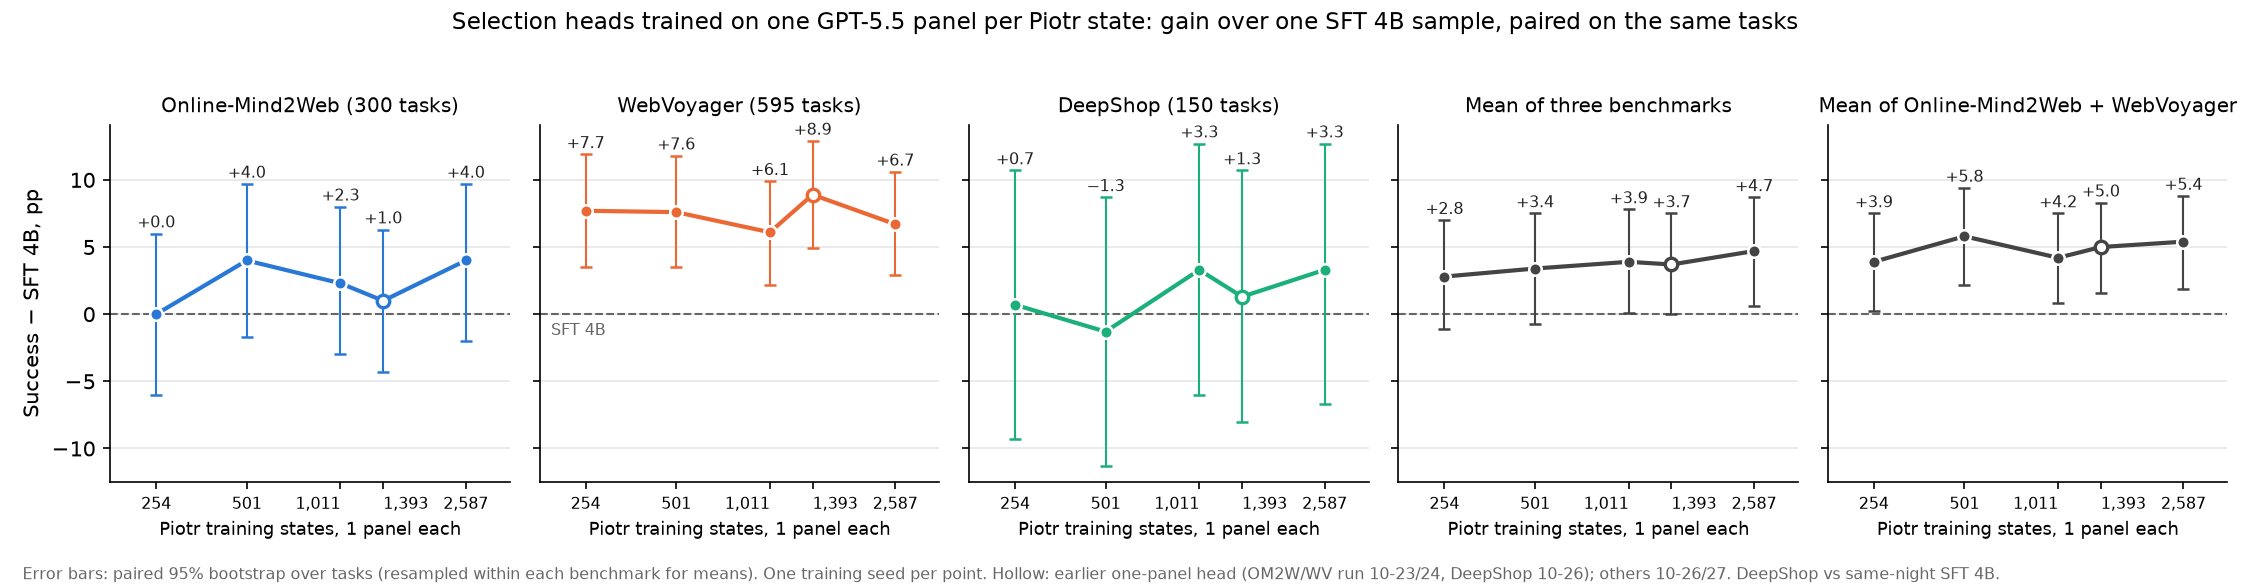
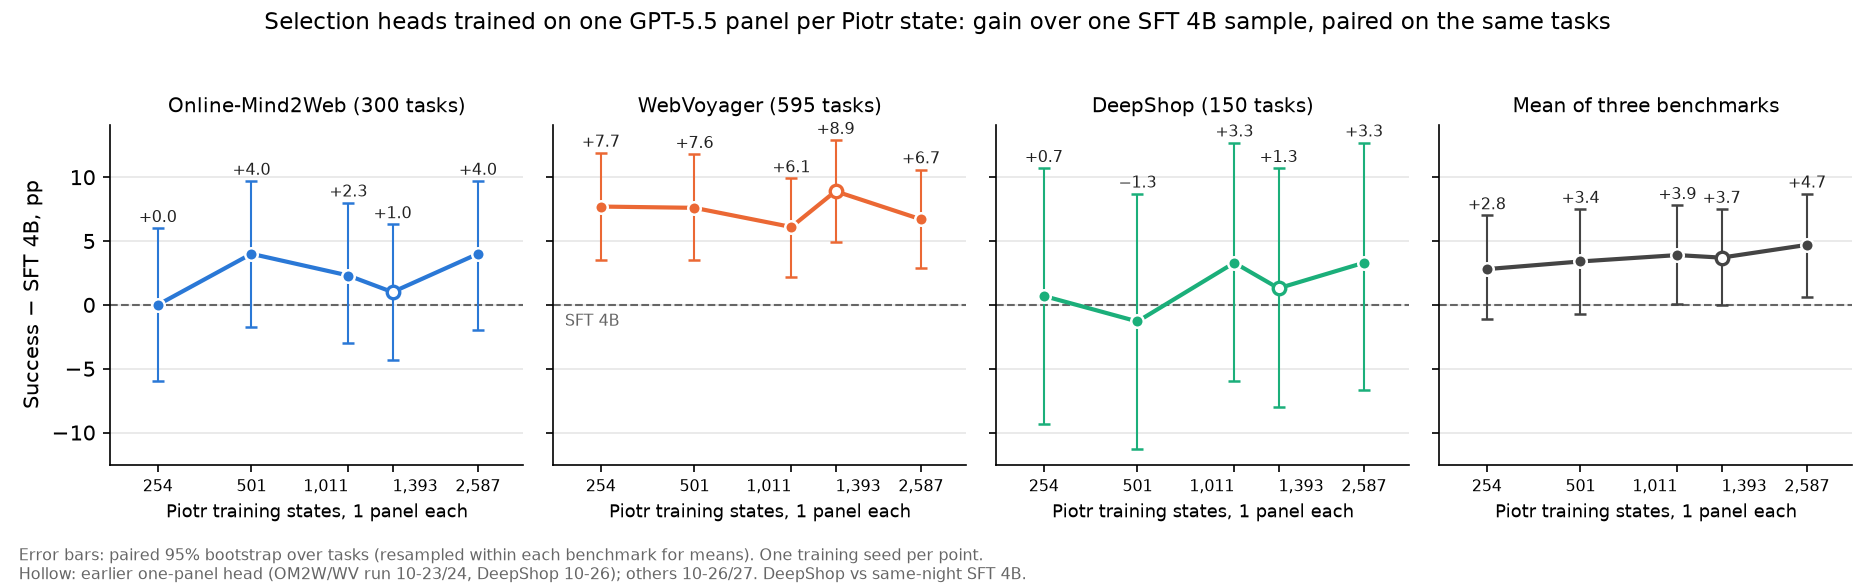
Final results: state and panel scaling at one seed, same-day DeepShop; standalone mean-of-three scaling plot, per-benchmark plot without the two-benchmark mean

diff --git a/openwebrl/docs/arm_results/rl_integration/selection-state-scale-1panel-paired-20261027-plot.py b/openwebrl/docs/arm_results/rl_integration/selection-state-scale-1panel-paired-20261027-plot.py
@@ -1,9 +1,10 @@
 #!/usr/bin/env python3
 """Paired-difference scaling plot for the one-panel state scaling (reads selection-state-scale-1panel-20261027.json).
 
-selection-state-scale-1panel-paired-20261027.png: heads trained on one GPT-5.5 panel per state (seed 0; 254 / 501 / 1,011 /
+(1) selection-state-scale-1panel-paired-20261027.png: heads trained on one GPT-5.5 panel per state (seed 0; 254 / 501 / 1,011 /
 2,587 states, plus the earlier 1,393-state one-panel head, drawn hollow), success minus SFT 4B one sample on the same tasks,
-one panel per benchmark plus the three-benchmark and Online-Mind2Web + WebVoyager means. Error bars: paired 95% bootstrap
+one panel per benchmark plus the three-benchmark mean.
+(2) selection-state-scale-1panel-mean-20261027.png: the three-benchmark mean alone. Error bars: paired 95% bootstrap
 over tasks (within each benchmark for means). Neither training-seed variance (one seed per head) nor run-date drift is in
 the bars.
 """
@@ -21,10 +22,11 @@ BLUE, ORANGE, AQUA, GRAY = "#2a78d6", "#eb6834", "#1baf7a", "#444444"
 RUNS = [("n250", 254), ("n500", 501), ("n1000", 1011), ("n1393", 1393), ("nall", 2587)]
 xs = [x for _, x in RUNS]
 PANELS = [("Online-Mind2Web (300 tasks)", "online_mind2web", BLUE), ("WebVoyager (595 tasks)", "webvoyager", ORANGE),
-          ("DeepShop (150 tasks)", "deepshop", AQUA), ("Mean of three benchmarks", "mean", GRAY),
-          ("Mean of Online-Mind2Web + WebVoyager", "om2w_wv", GRAY)]
-fig, axes = plt.subplots(1, 5, figsize=(15, 3.9), dpi=150, sharey=True)
-for ax, (title, key, color) in zip(axes, PANELS):
+          ("DeepShop (150 tasks)", "deepshop", AQUA), ("Mean of three benchmarks", "mean", GRAY)]
+TICKS = ["254", "501", "1,011", "1,393", "2,587"]
+
+
+def draw(ax, key, color, fs=7.5):
     v = [P[k][key] for k, _ in RUNS]
     y = [p for p, _, _ in v]; lo = [p - a for p, a, _ in v]; hi = [b - p for p, _, b in v]
     ax.axhline(0, color=MUTED, lw=1, ls="--")
@@ -33,20 +35,35 @@ for ax, (title, key, color) in zip(axes, PANELS):
     ax.plot([1393], [y[3]], "o", ms=6, color="white", markeredgecolor=color, markeredgewidth=1.6, zorder=5)
     for x, p, (_, _, b) in zip(xs, y, v):  # value above the upper cap, so it never sits on a bar
         ax.annotate(f"{p:+.1f}".replace("-", "\u2212"), (x, b), xytext=(0, 3), textcoords="offset points", ha="center",
-                    fontsize=7.5, color=INK)
-    ax.set_xscale("log"); ax.set_xticks(xs)
-    ax.set_xticklabels(["254", "501", "1,011", "1,393", "2,587"], fontsize=7.5)
+                    fontsize=fs, color=INK)
+    ax.set_xscale("log"); ax.set_xticks(xs); ax.set_xticklabels(TICKS, fontsize=fs)
     for t, ha in zip(ax.get_xticklabels(), ("center", "center", "right", "left", "center")): t.set_ha(ha)
-    ax.minorticks_off(); ax.set_xlim(180, 3600); ax.set_title(title, fontsize=9.5)
+    ax.minorticks_off(); ax.set_xlim(180, 3600)
     ax.grid(axis="y", color=GRID, lw=0.8); ax.set_axisbelow(True)
     for s in ("top", "right"): ax.spines[s].set_visible(False)
     ax.set_xlabel("Piotr training states, 1 panel each", fontsize=8.5)
+
+
+fig, axes = plt.subplots(1, 4, figsize=(12.5, 3.9), dpi=150, sharey=True)
+for ax, (title, key, color) in zip(axes, PANELS):
+    draw(ax, key, color); ax.set_title(title, fontsize=9.5)
 axes[0].set_ylabel("Success − SFT 4B, pp")
 axes[1].annotate("SFT 4B", (190, 0), xytext=(2, -10), textcoords="offset points", ha="left", fontsize=7.5, color=MUTED)
 fig.suptitle("Selection heads trained on one GPT-5.5 panel per Piotr state: gain over one SFT 4B sample, paired on the same tasks",
              fontsize=11)
 fig.text(0.01, 0.01, "Error bars: paired 95% bootstrap over tasks (resampled within each benchmark for means). One training seed "
-         "per point. Hollow: earlier one-panel head (OM2W/WV run 10-23/24, DeepShop 10-26); others 10-26/27. "
+         "per point.\nHollow: earlier one-panel head (OM2W/WV run 10-23/24, DeepShop 10-26); others 10-26/27. "
          "DeepShop vs same-night SFT 4B.", fontsize=7.5, color=MUTED)
-fig.tight_layout(rect=(0, 0.04, 1, 0.95))
+fig.tight_layout(rect=(0, 0.07, 1, 0.95))
 fig.savefig(HERE / "selection-state-scale-1panel-paired-20261027.png"); plt.close(fig)
+
+fig, ax = plt.subplots(figsize=(5.2, 3.8), dpi=200)
+draw(ax, "mean", GRAY, fs=8.5)
+ax.set_ylabel("Success − SFT 4B, pp (mean of 3 benchmarks)", fontsize=9)
+ax.annotate("SFT 4B", (190, 0), xytext=(2, -11), textcoords="offset points", fontsize=8, color=MUTED)
+ax.set_title("Selection head, one GPT-5.5 panel per state:\ngain over one SFT 4B sample vs training states", fontsize=10)
+fig.text(0.01, 0.01, "Online-Mind2Web 300, WebVoyager 595, DeepShop 150, equal weight. Paired 95% bootstrap over tasks;\n"
+         "one training seed per point. Hollow: earlier one-panel head (run 10-23/24, DeepShop 10-26).", fontsize=6.5,
+         color=MUTED)
+fig.tight_layout(rect=(0, 0.07, 1, 1))
+fig.savefig(HERE / "selection-state-scale-1panel-mean-20261027.png"); plt.close(fig)

diff --git a/openwebrl/docs/ARM_FINAL_RESULTS.md b/openwebrl/docs/ARM_FINAL_RESULTS.md
@@ -312,3 +312,30 @@ Its conservative all-attempt model total was $353.582380 ($348.649556 known usag
 - **Caveat: DeepShop drifted between run dates.** Same-day reruns on 10-24 dropped SFT 4B from 34.0% to 28.0% and the earlier head from 44.0% to 34.0%; against that same-day head the new heads differ by −6.0 to +2.7 pp on DeepShop (all intervals span 0). DeepShop columns, and so the means, are not comparable across dates; Online-Mind2Web and WebVoyager are flat.
 - **Same-day rerun of both full-data heads (10-25).** On one day and all 1,045 tasks, the all-data head (2,587 states) is **−3.7 pp [−7.2, −0.1]** below the earlier Piotr-data head (2,692 states) on the mean (42.1% vs 38.4% overall). Online-Mind2Web (−1.7) and WebVoyager (−0.7) are level; the gap is DeepShop (−8.7 [−17.3, 0.0]). Each head rerun against its own earlier run moves only −2.2 and −1.1 pp, so run-date drift explains about a quarter of the original −4.8 pp gap ([details](ARM_SELECTION_HEAD.md#selection-piotr-head-sameday-20261025)).
 - [Details](ARM_SELECTION_HEAD.md#selection-head-data-scale-20261023) · [Evidence](arm_results/rl_integration/selection-data-scale-20261023.json) · [Analysis script](arm_results/rl_integration/selection-data-scale-20261023-analysis.py)
+
+<a id="final-selection-state-scale-1panel-20261027"></a>
+
+### More states or more panels, one seed per head, same-day DeepShop (October 26–27)
+
+**With one GPT-5.5 panel per state, ten times more states (254 → 2,587) moves the gain over one SFT 4B sample on the three-benchmark mean only from +2.8 to +4.7 pp (2,587 − 254: +1.9 pp [−2.0, +5.8]). On a fixed 1,393 states, 13× more panels per state is also flat (all panels − one: +1.2 pp [−2.6, +5.0]).** Every head's gain comes mainly from WebVoyager (+6 to +9 pp, each significant); Online-Mind2Web and DeepShop are within noise. All runs compare DeepShop against a same-day SFT 4B run, which removes the date drift noted above. Same joint head, soft CE, batch 64, last of 20 epochs; states are whole tasks in a fixed order, our 86 offline test tasks excluded; all 1,045 tasks, T 1.0 / top-p 0.9, 30 steps.
+
+![Gain over one SFT 4B sample on the three-benchmark mean versus training states, one panel per state](arm_results/rl_integration/selection-state-scale-1panel-mean-20261027.png)
+
+![The same per benchmark](arm_results/rl_integration/selection-state-scale-1panel-paired-20261027.png)
+
+| Training data | States | Panels | Online-Mind2Web overall | WebVoyager overall | DeepShop overall | Mean overall | Mean − SFT 4B, pp [95% CI] |
+| --- | ---: | ---: | ---: | ---: | ---: | ---: | ---: |
+| One panel per state | 254 | 254 | 31.7% | 52.1% | 34.0% | 39.3% | +2.8 [−1.1, +7.0] |
+| One panel per state | 501 | 501 | 35.7% | 51.9% | 32.0% | 39.9% | +3.4 [−0.7, +7.5] |
+| One panel per state | 1,011 | 1,011 | 34.0% | 50.4% | 36.7% | 40.4% | **+3.9 [+0.1, +7.8]** |
+| One panel per state | 1,393 | 1,393 | 32.7% | 53.3% | 34.7% | 40.2% | **+4.2 [+0.4, +8.0]** |
+| One panel per state | 2,587 | 2,587 | 35.7% | 51.1% | 36.7% | 41.2% | **+4.7 [+0.6, +8.7]** |
+| ≤ 8 panels per state | 1,393 | 10,181 | 35.3% | 51.8% | 34.0% | 40.4% | **+4.4 [+0.7, +8.0]** |
+| Every panel (≤ 16 per state) | 1,393 | 18,587 | 34.7% | 52.9% | 36.7% | 41.4% | **+5.4 [+1.8, +9.0]** |
+
+SFT 4B: Online-Mind2Web 31.7% and WebVoyager 44.4% (10-18; Online-Mind2Web re-judged by gpt-5.6-terra); DeepShop 33.3% on 10-27 for the one-panel heads except 1,393, and 32.0% on 10-26 for the 1,393-state heads. Online-Mind2Web 300, WebVoyager 595, DeepShop 150 tasks; overall counts invalid episodes as failures; paired 95% bootstrap over tasks.
+
+- **Offline agrees.** On the 348 held-out test states (fixed five, three seeds each), the one-panel heads score 37.3–38.2% and the panel counts 37.0–38.2%, against 35.65% for one SFT sample.
+- **DeepShop drift explained the earlier panel effect.** Against a 10-24 run, all panels looked +8.7 pp better than one on DeepShop; rerunning the one-panel head on the same day as the others raised it by 6.7 pp, leaving +2.0 [−7.3, +11.3].
+- **Caveat.** One training seed per live head (offline seed spread ≤ 0.8 pp); the 1,393-state one-panel head's Online-Mind2Web and WebVoyager runs are from 10-23/24, and its single panel per state was drawn differently from the other one-panel heads.
+- [State-scaling details](ARM_SELECTION_HEAD.md#selection-head-state-scale-1panel-20261027) · [Panel-scaling details](ARM_SELECTION_HEAD.md#selection-head-panel-scale-20261026) · Evidence: [states](arm_results/rl_integration/selection-state-scale-1panel-20261027.json), [panels](arm_results/rl_integration/selection-panel-scale-20261026.json) · [Plot script](arm_results/rl_integration/selection-state-scale-1panel-paired-20261027-plot.py)

diff --git a/openwebrl/docs/ARM_SELECTION_HEAD.md b/openwebrl/docs/ARM_SELECTION_HEAD.md
@@ -215,7 +215,9 @@ Tasks: Online-Mind2Web 300, WebVoyager 595, DeepShop 150. SFT 4B: Online-Mind2We
 | 1,393 | 37.66% | 37.77% | 38.31% | +2.3 |
 | 2,587 | 38.07% | 38.31% | 38.35% | +2.6 |
 
-![One-panel state scaling: paired gain over SFT 4B per benchmark](arm_results/rl_integration/selection-state-scale-1panel-paired-20261027.png)
+![One-panel state scaling: paired gain over SFT 4B on the three-benchmark mean](arm_results/rl_integration/selection-state-scale-1panel-mean-20261027.png)
+
+![One-panel state scaling: paired gain over SFT 4B per benchmark and on the mean](arm_results/rl_integration/selection-state-scale-1panel-paired-20261027.png)
 
 - **Setup.** States are whole tasks of Piotr's training split in the seeded order of the all-panels state scaling (subset seed 20261023), so smaller sets are subsets of larger ones; the counts are 254 / 501 / 1,011 / 2,587 because whole tasks are kept. 2,587 is every training state outside our 86 offline test tasks (Piotr's 2,692 minus 105). Each state keeps one panel from a fixed per-state order (`train_head_round.py --extra-panels-per-state 1 --extra-nested-panels`), the same panel as the panel-scale one-panel heads; the live 1,393 row is the earlier one-panel head, whose panel was drawn differently (offline 37.65% vs 37.66%). Recipe of the one-panel head: joint transformer, soft CE, batch 64, last of 20 epochs, so the 254-state head takes about 80 optimizer steps. Live heads are seed 0; seed spread offline is ≤ 0.8 pp.
 - **Caveats.** DeepShop is compared with the same-night SFT 4B run (10-27, 33.3%); the 1,393-state DeepShop run is from 10-26 (SFT 4B 32.0% that day). The 1,393-state Online-Mind2Web and WebVoyager runs are from 10-23/24; those benchmarks have not drifted measurably.
